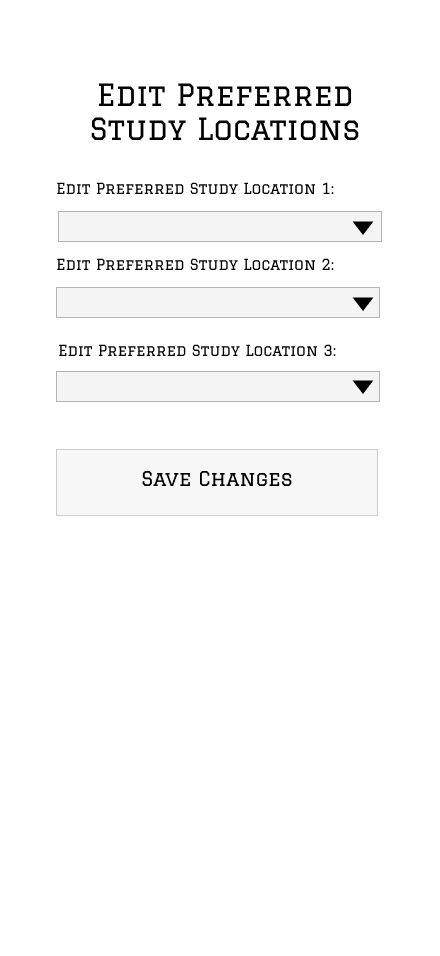
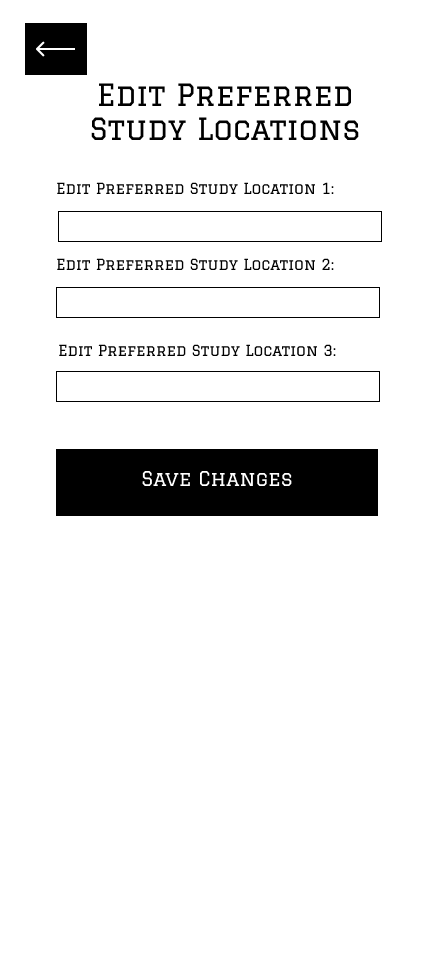
Fixed Wireframe/Prototype and updated UX-DESIGN.md

diff --git a/UX-DESIGN.md b/UX-DESIGN.md
@@ -44,7 +44,7 @@ On this following diagram, the user can view a bunch of information based on one
 
 This diagram outlines the "Organize Study Sync" option of the User's dashboard. This page allows the user to select and organize a meeting, as well as showing their upcoming and past meetings. 
 
-![Meeting Setup](<ux-design/iPhone 16 & 17 Pro Max - 7 (1).png>)
+![Meeting Setup](<ux-design/iPhone 16 & 17 Pro Max - 7.png>)
 
 The final part of the User Dashboard is the profile icon in the top right of the page. This profile icon leads to the user profile page, where several things can be done. Class schedules, preferred study locations and methods, as well as user profile details can all be edited in this page. These diagrams are laid out below. 
 
